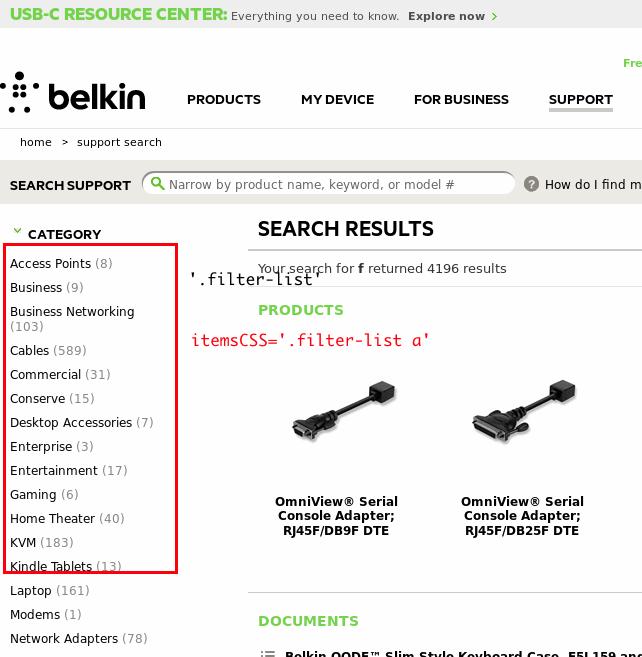
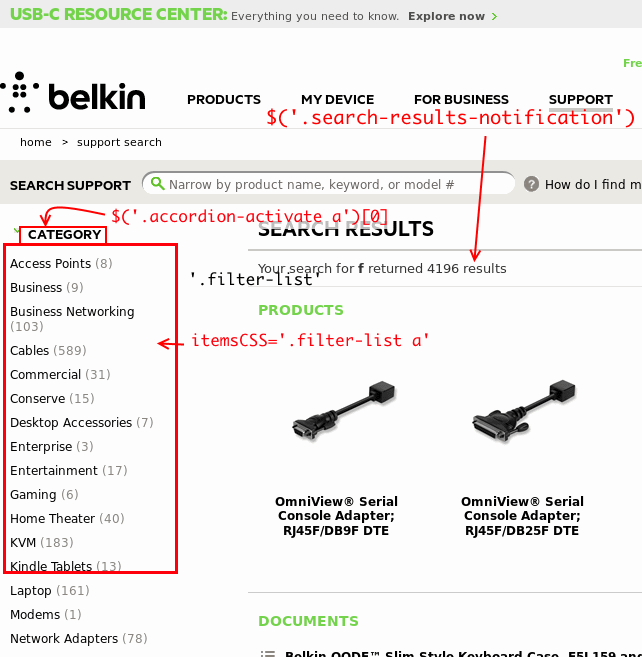
add belkin_f_Router_G_Wireless_G_Travel_Router.png

diff --git a/README.md b/README.md
@@ -12,6 +12,31 @@ Belkin Firmware Files Harvest
 ```python
 In [43]: CSS('.accordion-activate a').text
 Out[43]: 'ROUTER'
+
 In [45]: str([_.text for _ in CSSs('.filter-list a')])
 Out[45]: "['10/100', 'AC1000 Wireless Router', 'AC1200 Wireless Router', 'AC1800 Wireless Router', 'AC2000', 'AC800', 'AC900 Wireless Router', 'B', 'Basic / Connect N150', 'G', 'N', 'N150', 'N150 Wireless Router', 'N300 Wireless Router', 'N450 Wireless Router', 'N600 DB Wireless Router', 'N750 DB Wireless Router', 'N900 DB Wireless Router', 'Play/Play Max/Play N600/Play N600 HD', 'Router', 'Share / Share MAX / Share N300', 'Surf / Surf N300', 'Surf N150', 'VPN', 'Wireless Dual Band N']"
+```
+
+<img src="https://raw.githubusercontent.com/MikimotoH/Belkin_Harvest/master/belkin_f_Router_G.png">
+```python
+In [61]: CSS('.search-results-notification').text
+Out[61]: 'Your search for f returned 14 results'
+
+In [64]: str([(i,_.text) for i,_ in enumerate(CSSs('.items a span'))])
+Out[64]: "[(0, 'G Wireless Router'), (1, 'Wireless G Travel Router'), (2, 'Wireless G+ MIMO Router'), (3, 'N150 Enhanced Wireless Router')]"
+```
+
+<img src="https://raw.githubusercontent.com/MikimotoH/Belkin_Harvest/master/belkin_f_Router_G_Wireless_G_Travel_Router.png">
+```python
+In [75]: CSS('.product-name-price').text.strip()
+Out[75]: 'Wireless G Travel Router\nPart # F5D7233'
+
+In [76]: CSS('.product-info img').get_attribute('src')
+Out[76]: 'http://www.belkin.com/images/product/F5D7233/STD1_F5D7233.jpg'
+
+In [77]: CSSs('.icon-list-header-container h2')[2].text
+Out[77]: 'DOWNLOADS'
+
+In [80]: str([_.text for _ in CSSs('.icon-list-header-container')[2].find_elements_by_css_selector('a')])
+Out[80]: "['Belkin router firmware updates', 'Wireless G Travel Router F5D7233 v1 - Firmware (US)']"
 ```
